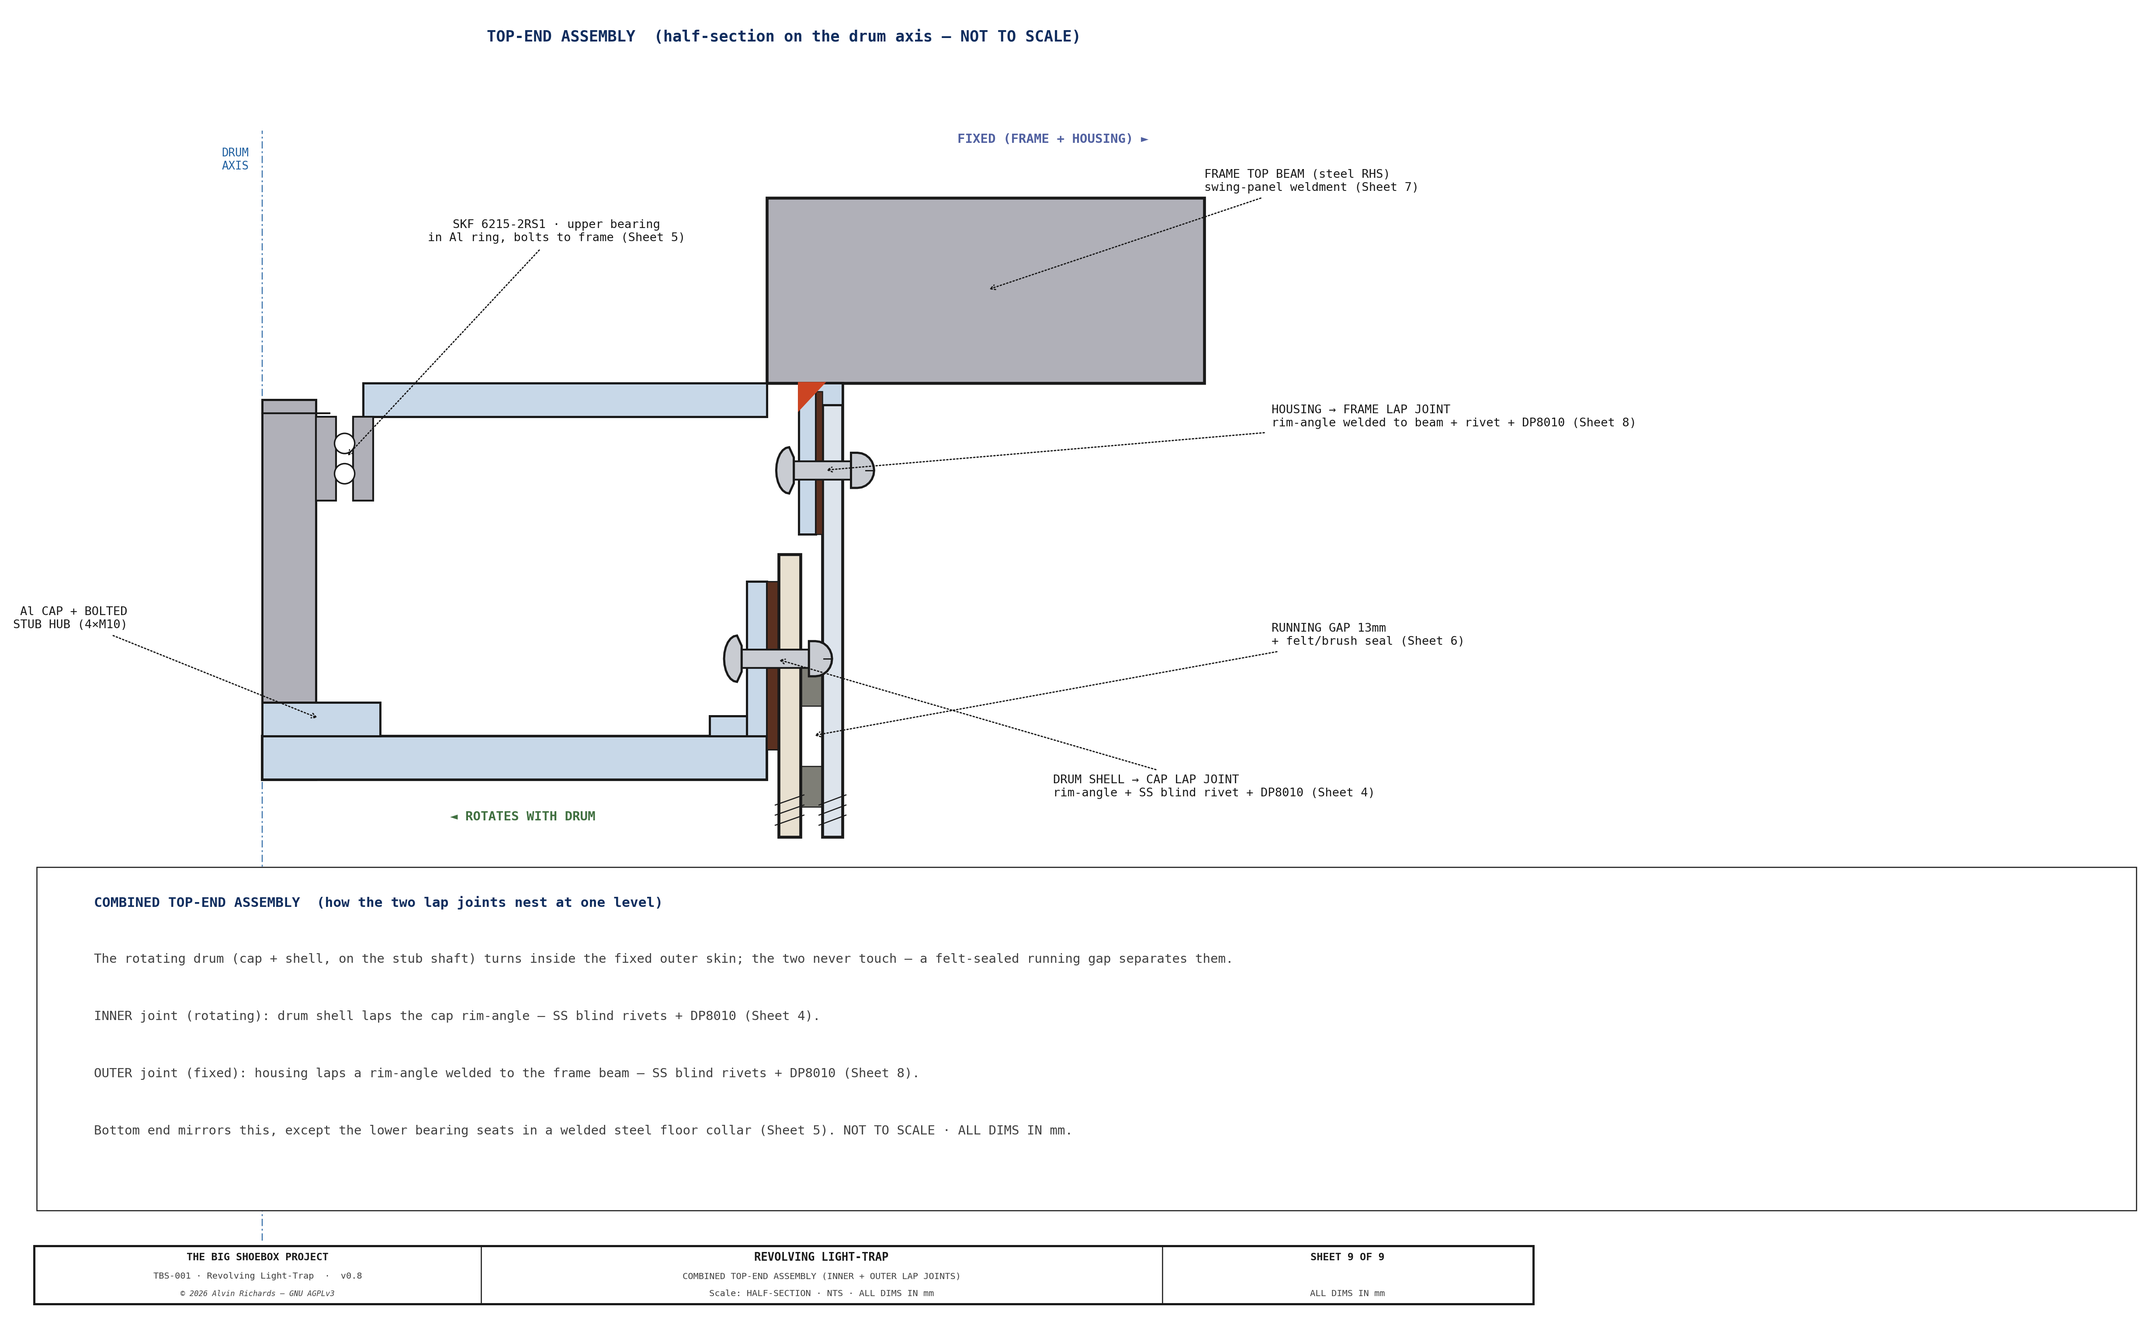
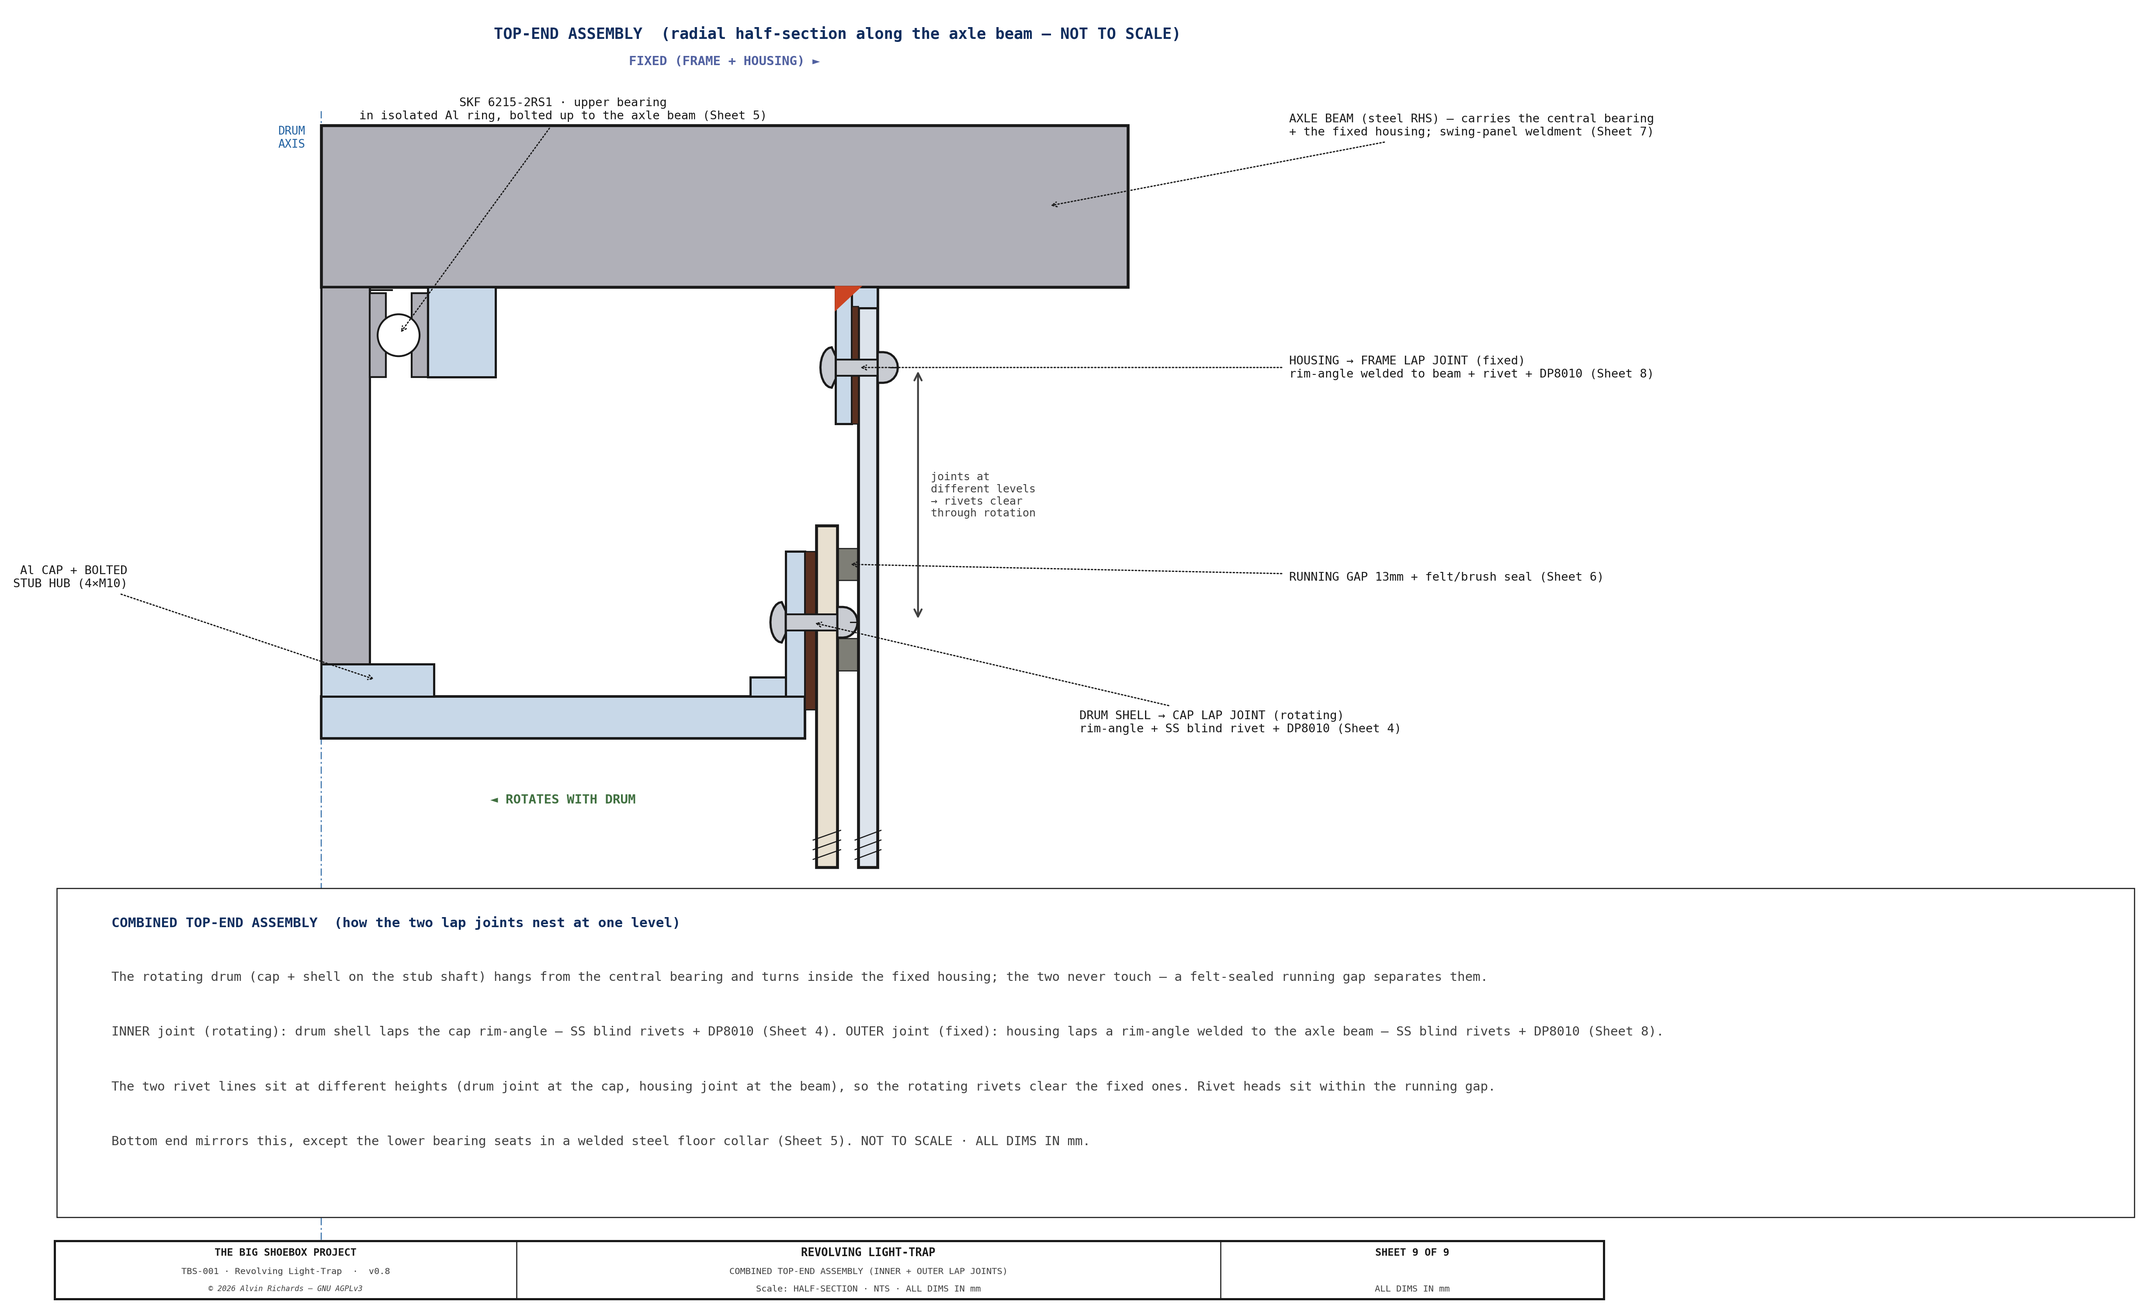
lighttrap Sheet 6: explicit light-path rays (enter → blocked at drum wall); Sheet 9: accurate top-end geometry (axle beam carries central bearing, vertical-axis bearing section, rivets at different levels + touching facing plates)

diff --git a/src/generators/generate_lighttrap_diagram.py b/src/generators/generate_lighttrap_diagram.py
@@ -966,15 +966,11 @@ def draw_sheet6():
     def angdiff(a, b):
         return abs((a - b + 180) % 360 - 180)
 
+    def ray(cx, x0, x1, yy):                                     # one light-path ray (arrow)
+        ax.annotate("", xy=(x1, yy), xytext=(x0, yy),
+                    arrowprops=dict(arrowstyle="-|>", color="#E8A800", lw=1.7), zorder=5)
+
     for cx, dth, title in plans:
-        # daylight wedge — light crossing an ALIGNED opening into the bore (drawn behind)
-        for oc in (0, 180):
-            if angdiff(dth, oc) < oh:
-                a_lo, a_hi = math.radians(oc - oh), math.radians(oc + oh)
-                wl = [(cx, 0)] + [(cx + HR * math.cos(a_lo + (a_hi - a_lo) * k / 24),
-                                   HR * math.sin(a_lo + (a_hi - a_lo) * k / 24)) for k in range(25)]
-                ax.add_patch(mpatches.Polygon(wl, closed=True, fc="#FBE7A0", ec="none",
-                                              alpha=0.85, zorder=1))
         # running-gap ring (drum OD → housing bore) — thin, so the annulus reads
         draw_circle(ax, cx, 0, HR - LT_HOUSING_T, lw=0.8, color="#B8BDC6", fill=False, zorder=2)
         # fixed housing walls — two 80° openings, 180° apart (bold black)
@@ -987,17 +983,24 @@ def draw_sheet6():
             ax.plot([cx + (DR - 24) * math.cos(a), cx + (DR + 24) * math.cos(a)],
                     [(DR - 24) * math.sin(a), (DR + 24) * math.sin(a)],
                     color="#B08020", lw=1.4, zorder=7)
+        # LIGHT-PATH RAYS — daylight enters an aligned opening, stopped by the drum wall
+        any_aligned = any(angdiff(dth, o) < oh for o in (0, 180))
+        for oc in (0, 180):
+            es = -1 if oc == 180 else 1                           # side light comes from (EXT=left)
+            if angdiff(dth, oc) < oh:                             # aligned → ray crosses to far wall
+                for yy in (-150, -55, 55, 150):
+                    xh = cx - es * math.sqrt(max(DR * DR - yy * yy, 0.0))
+                    ray(cx, cx + es * (HR + 105), xh, yy)
+            elif not any_aligned:                                # mid-rotation → blocked at entry
+                for yy in (-45, 45):
+                    xh = cx + es * math.sqrt(max(DR * DR - yy * yy, 0.0))
+                    ray(cx, cx + es * (HR + 105), xh, yy)
         ax.text(cx, HR + 60, title, ha="center", va="bottom", fontsize=7.5,
                 color=TITLE_COL, fontweight="bold", **FONT, zorder=9)
-        for oc, tag, hx, col in ((180, "EXT", cx - HR, "#5060A0"), (0, "INT", cx + HR, "#407040")):
+        for oc, tag, col in ((180, "EXT", "#5060A0"), (0, "INT", "#407040")):
             aligned = angdiff(dth, oc) < oh
             dirx = -1 if oc == 180 else 1
-            ax.annotate("", xy=(cx + dirx * (DR if aligned else HR - 6), 0),
-                        xytext=(cx + dirx * (HR + 120), 0),
-                        arrowprops=dict(arrowstyle="-|>",
-                                        color=("#2E9E4F" if aligned else "#D33"),
-                                        lw=2.2), zorder=8)
-            ax.text(cx + dirx * (HR + 135), 0, f"{tag}\n{'OPEN (entry)' if aligned else 'SEALED'}",
+            ax.text(cx + dirx * (HR + 125), 0, f"{tag}\n{'OPEN (entry)' if aligned else 'SEALED'}",
                     ha=("right" if oc == 180 else "left"), va="center", fontsize=6.5,
                     color=(col if aligned else "#D33"), **FONT, zorder=9)
 
@@ -1028,7 +1031,7 @@ def draw_sheet6():
 
     notes = [
         "SEALS & LIGHT-PATH",
-        "Plans A–C: yellow wedge = daylight entering the bore through an aligned opening; the drum's opaque wall covers the opposite opening at every angle.",
+        "Plans A–C: yellow rays = the light path — daylight enters an aligned opening and is stopped by the drum's opaque wall before it can reach the far opening; at mid-rotation both openings are blocked at entry.",
         f"Running gap {RUN_GAP}mm (drum OD → housing bore): closed by a felt/brush wiper — drum rotates against it.",
         "Top + bottom: 12mm closed-cell neoprene wiper strips (cap ↔ frame) + silicone bead to the frame plates.",
         f"Light-tight by geometry: each opening {LT_OPENING_DEG}° (<90°); the drum's {LT_SHELL_ARC}° wall bridges the two 180°-apart housing openings at every rotation.",
@@ -1155,8 +1158,8 @@ def draw_sheet8():
 # Axis on the LEFT (r = 0), radius increases to the right; z = height near the top.
 # ═════════════════════════════════════════════════════════════════════════════
 def draw_sheet9():
-    X_LO, X_HI, Z_LO, Z_HI = -140, 760, -340, 430
-    FIG_W = 15.0
+    X_LO, X_HI, Z_LO, Z_HI = -170, 800, -330, 470
+    FIG_W = 15.5
     FIG_H = FIG_W * (Z_HI - Z_LO) / (X_HI - X_LO)
     fig, ax = plt.subplots(figsize=(FIG_W, FIG_H), dpi=DIAGRAM_DPI)
     fig.patch.set_facecolor(BG)
@@ -1166,81 +1169,86 @@ def draw_sheet9():
     ax.set_aspect("equal")
     ax.axis("off")
 
-    ax.text(310, Z_HI - 10, "TOP-END ASSEMBLY  (half-section on the drum axis — NOT TO SCALE)",
+    ax.text(320, Z_HI - 8, "TOP-END ASSEMBLY  (radial half-section along the axle beam — NOT TO SCALE)",
             ha="center", va="top", fontsize=8.5, color=TITLE_COL, fontweight="bold",
             **FONT, zorder=15)
 
-    # ── Rotation axis (left edge) ────────────────────────────────────────────
-    draw_cl_v(ax, 0, Z_LO + 40, Z_HI - 70)
-    ax.text(-8, Z_HI - 80, "DRUM\nAXIS", ha="right", va="top", fontsize=6.2,
+    # ── Rotation axis (left edge, r = 0) ─────────────────────────────────────
+    draw_cl_v(ax, 0, Z_LO + 30, Z_HI - 60)
+    ax.text(-10, Z_HI - 70, "DRUM\nAXIS", ha="right", va="top", fontsize=6.2,
             color=C_CL, **FONT, zorder=9)
 
-    # ── FIXED frame (steel beam + Al bearing ring) ───────────────────────────
-    draw_rect(ax, 300, 210, 260, 110, fc=C_STEEL, lw=1.6, zorder=4)          # frame top beam (RHS)
-    draw_rect(ax, 60, 190, 240, 20, fc=C_ALUM, lw=1.2, zorder=5)             # upper bearing ring / plate
-    # ── Upper SKF 6215 bearing on the stub shaft ─────────────────────────────
-    draw_rect(ax, 54, 140, 12, 50, fc=C_STEEL, lw=1.0, zorder=6)             # outer race
-    draw_rect(ax, 32, 140, 12, 50, fc=C_STEEL, lw=1.0, zorder=6)             # inner race
-    for zb in (156, 174):
-        draw_circle(ax, 49, zb, 6, lw=0.8, color=C_OUT, fill=True, fc="white", zorder=7)
-    # ── ROTATING stub shaft + hub + cap ──────────────────────────────────────
-    draw_rect(ax, 0, -26, 32, 226, fc=C_STEEL, lw=1.2, zorder=5)             # stub shaft
-    ax.plot([0, 40], [192, 192], color=C_OUT, lw=1.0, zorder=8)              # circlip plane
-    draw_rect(ax, 0, -26, 300, 26, fc=C_ALUM, lw=1.4, zorder=5)             # top cap disc (Al)
-    draw_rect(ax, 0, 0, 70, 20, fc=C_ALUM, lw=1.2, zorder=6)                # bolted hub boss
+    # ── FIXED: axle beam (carries central bearing AND the housing) ───────────
+    draw_rect(ax, 0, 300, 500, 100, fc=C_STEEL, lw=1.6, zorder=4)            # axle beam (steel RHS), spans past housing
+    # ── Upper SKF 6215 bearing — hangs below the beam, on the vertical shaft ──
+    draw_rect(ax, 66, 244, 42, 56, fc=C_ALUM, lw=1.2, zorder=5)              # isolated Al bearing ring (bolts up to beam)
+    draw_rect(ax, 56, 244, 10, 52, fc=C_STEEL, lw=1.0, zorder=6)             # outer race
+    draw_rect(ax, 30, 244, 10, 52, fc=C_STEEL, lw=1.0, zorder=6)             # inner race
+    draw_circle(ax, 48, 270, 13, lw=1.0, color=C_OUT, fill=True, fc="white", zorder=7)  # one ball (section)
+    # ── ROTATING: stub shaft + bolted hub + cap ──────────────────────────────
+    draw_rect(ax, 0, 46, 30, 254, fc=C_STEEL, lw=1.2, zorder=5)              # stub shaft (up into bearing)
+    ax.plot([30, 44], [298, 298], color=C_OUT, lw=1.0, zorder=8)            # circlip plane
+    draw_rect(ax, 0, 20, 300, 26, fc=C_ALUM, lw=1.4, zorder=5)              # top cap disc (Al)
+    draw_rect(ax, 0, 46, 70, 20, fc=C_ALUM, lw=1.2, zorder=6)               # bolted hub boss (4×M10)
 
-    # ── INNER joint — drum shell → cap lap (Sheet 4) ─────────────────────────
-    draw_rect(ax, 266, 0, 34, 12, fc=C_ALUM, lw=1.2, zorder=6)              # rim-angle flat leg on cap
-    draw_rect(ax, 288, 0, 12, 92, fc=C_ALUM, lw=1.2, zorder=6)              # standing lip (up)
-    draw_rect(ax, 300, -8, 7, 100, fc=C_GASKT, lw=0.7, zorder=6)            # DP8010 (inner)
-    draw_rect(ax, 307, -60, 13, 168, fc=C_LT_DRUM, lw=1.6, zorder=7)        # drum shell (laps up, hangs down)
-    for zz in (-38, -44, -50):                                             # break line (shell continues down)
+    # ── INNER joint — drum shell → cap lap (rotating, Sheet 4) ───────────────
+    draw_rect(ax, 266, 46, 34, 12, fc=C_ALUM, lw=1.2, zorder=6)             # rim-angle flat leg on cap
+    draw_rect(ax, 288, 46, 12, 90, fc=C_ALUM, lw=1.2, zorder=6)             # standing lip (up)
+    draw_rect(ax, 300, 38, 7, 98, fc=C_GASKT, lw=0.7, zorder=6)             # DP8010 (inner)
+    draw_rect(ax, 307, -60, 13, 212, fc=C_LT_DRUM, lw=1.6, zorder=7)        # drum shell (laps up over lip, hangs down)
+    for zz in (-40, -46, -52):                                             # break line (shell continues down)
         ax.plot([305, 322], [zz - 3, zz + 3], color=C_OUT, lw=0.6, zorder=8)
-    blind_rivet(ax, 305, 46, 0, 40, d=11)                                  # radial shell → lip rivet
+    blind_rivet(ax, 304, 92, 0, 32, d=10)                                  # radial shell → lip rivet (heads on both faces)
 
     # ── Running gap + felt seal (Sheet 6) ────────────────────────────────────
-    for zf in (-30, 30):
-        draw_rect(ax, 320, zf - 12, 13, 24, fc="#7E7E76", lw=0.6, zorder=6)
+    for zf in (72, 128):
+        draw_rect(ax, 320, zf - 10, 13, 20, fc="#7E7E76", lw=0.6, zorder=6)
 
-    # ── FIXED outer skin — housing + housing→frame lap (Sheet 8) ─────────────
-    draw_rect(ax, 333, -60, 12, 270, fc="#DDE4EC", lw=1.6, zorder=6)        # fixed housing wall
-    for zz in (-38, -44, -50):                                             # break line (housing continues down)
+    # ── FIXED outer skin — housing + housing → frame lap (Sheet 8) ───────────
+    draw_rect(ax, 333, -60, 12, 360, fc="#DDE4EC", lw=1.6, zorder=6)        # fixed housing wall (up to beam)
+    for zz in (-40, -46, -52):                                             # break line (housing continues down)
         ax.plot([331, 347], [zz - 3, zz + 3], color=C_OUT, lw=0.6, zorder=8)
-    draw_rect(ax, 319, 197, 26, 13, fc=C_ALUM, lw=1.2, zorder=7)           # rim-angle flat leg (welded to beam)
-    draw_rect(ax, 319, 120, 10, 90, fc=C_ALUM, lw=1.2, zorder=7)           # standing lip (down)
-    draw_rect(ax, 329, 120, 4, 85, fc=C_GASKT, lw=0.6, zorder=7)           # DP8010 (outer)
-    ax.add_patch(mpatches.Polygon([(319, 210), (319, 194), (334, 210)], closed=True,
+    draw_rect(ax, 319, 287, 26, 13, fc=C_ALUM, lw=1.2, zorder=7)           # rim-angle flat leg (welded to beam underside)
+    draw_rect(ax, 319, 215, 10, 85, fc=C_ALUM, lw=1.2, zorder=7)           # standing lip (down)
+    draw_rect(ax, 329, 215, 4, 73, fc=C_GASKT, lw=0.6, zorder=7)           # DP8010 (outer)
+    ax.add_patch(mpatches.Polygon([(319, 300), (319, 286), (334, 300)], closed=True,
                                   fc="#CC4422", ec="#CC4422", zorder=8))    # weld to beam
-    blind_rivet(ax, 333, 158, 0, 34, d=11)                                 # radial housing → lip rivet
+    blind_rivet(ax, 332, 250, 0, 26, d=10)                                 # radial housing → lip rivet
+
+    # ── Rivet-clearance callout (the two joints sit at different heights) ─────
+    ax.annotate("", xy=(370, 250), xytext=(370, 92),
+                arrowprops=dict(arrowstyle="<->", color=C_DIM, lw=1.0), zorder=6)
+    ax.text(378, 171, "joints at\ndifferent levels\n→ rivets clear\nthrough rotation",
+            ha="left", va="center", fontsize=6, color=C_DIM, **FONT, zorder=9)
 
     # ── Zone tags ────────────────────────────────────────────────────────────
-    ax.text(155, -48, "◄ ROTATES WITH DRUM", ha="center", va="center", fontsize=7,
+    ax.text(150, -18, "◄ ROTATES WITH DRUM", ha="center", va="center", fontsize=7,
             color="#407040", fontweight="bold", **FONT, zorder=9)
-    ax.text(470, 355, "FIXED (FRAME + HOUSING) ►", ha="center", va="center", fontsize=7,
+    ax.text(250, 440, "FIXED (FRAME + HOUSING) ►", ha="center", va="center", fontsize=7,
             color="#5060A0", fontweight="bold", **FONT, zorder=9)
 
     # ── Leaders ──────────────────────────────────────────────────────────────
-    leader(ax, 49, 165, 175, 300, "SKF 6215-2RS1 · upper bearing\nin Al ring, bolts to frame (Sheet 5)",
+    leader(ax, 48, 270, 150, 410, "SKF 6215-2RS1 · upper bearing\nin isolated Al ring, bolted up to the axle beam (Sheet 5)",
            fs=6.5, color=C_OUT, ha="center", arrow_style="->", font=FONT)
-    leader(ax, 35, 10, -80, 70, "Al CAP + BOLTED\nSTUB HUB (4×M10)", fs=6.5, color=C_OUT,
+    leader(ax, 35, 56, -120, 120, "Al CAP + BOLTED\nSTUB HUB (4×M10)", fs=6.5, color=C_OUT,
            ha="right", arrow_style="->", font=FONT)
-    leader(ax, 305, 46, 470, -30, "DRUM SHELL → CAP LAP JOINT\nrim-angle + SS blind rivet + DP8010 (Sheet 4)",
+    leader(ax, 304, 92, 470, 30, "DRUM SHELL → CAP LAP JOINT (rotating)\nrim-angle + SS blind rivet + DP8010 (Sheet 4)",
            fs=6.5, color=C_OUT, ha="left", arrow_style="->", font=FONT)
-    leader(ax, 326, 0, 600, 60, f"RUNNING GAP {RUN_GAP}mm\n+ felt/brush seal (Sheet 6)",
+    leader(ax, 326, 128, 600, 120, f"RUNNING GAP {RUN_GAP}mm + felt/brush seal (Sheet 6)",
            fs=6.5, color=C_OUT, ha="left", arrow_style="->", font=FONT)
-    leader(ax, 333, 158, 600, 190, "HOUSING → FRAME LAP JOINT\nrim-angle welded to beam + rivet + DP8010 (Sheet 8)",
+    leader(ax, 332, 250, 600, 250, "HOUSING → FRAME LAP JOINT (fixed)\nrim-angle welded to beam + rivet + DP8010 (Sheet 8)",
            fs=6.5, color=C_OUT, ha="left", arrow_style="->", font=FONT)
-    leader(ax, 430, 265, 560, 330, "FRAME TOP BEAM (steel RHS)\nswing-panel weldment (Sheet 7)",
+    leader(ax, 450, 350, 600, 400, "AXLE BEAM (steel RHS) — carries the central bearing\n+ the fixed housing; swing-panel weldment (Sheet 7)",
            fs=6.5, color=C_OUT, ha="left", arrow_style="->", font=FONT)
 
     notes = [
         "COMBINED TOP-END ASSEMBLY  (how the two lap joints nest at one level)",
-        "The rotating drum (cap + shell, on the stub shaft) turns inside the fixed outer skin; the two never touch — a felt-sealed running gap separates them.",
-        "INNER joint (rotating): drum shell laps the cap rim-angle — SS blind rivets + DP8010 (Sheet 4).",
-        "OUTER joint (fixed): housing laps a rim-angle welded to the frame beam — SS blind rivets + DP8010 (Sheet 8).",
+        "The rotating drum (cap + shell on the stub shaft) hangs from the central bearing and turns inside the fixed housing; the two never touch — a felt-sealed running gap separates them.",
+        "INNER joint (rotating): drum shell laps the cap rim-angle — SS blind rivets + DP8010 (Sheet 4). OUTER joint (fixed): housing laps a rim-angle welded to the axle beam — SS blind rivets + DP8010 (Sheet 8).",
+        "The two rivet lines sit at different heights (drum joint at the cap, housing joint at the beam), so the rotating rivets clear the fixed ones. Rivet heads sit within the running gap.",
         "Bottom end mirrors this, except the lower bearing seats in a welded steel floor collar (Sheet 5). NOT TO SCALE · ALL DIMS IN mm.",
     ]
-    draw_notes(ax, notes, X_LO + 40, -95, 34, fs=7, font=FONT, width=1180,
+    draw_notes(ax, notes, X_LO + 40, -90, 34, fs=7, font=FONT, width=1220,
                title_color=TITLE_COL)
 
     title_block(ax, "SHEET 9 OF 9", drawing_title="REVOLVING LIGHT-TRAP",
